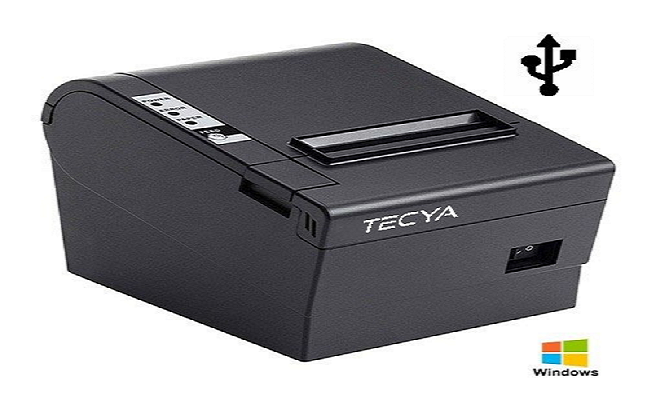
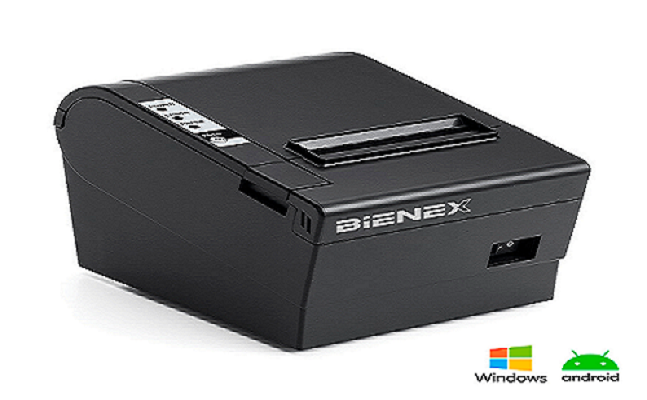
cambios

diff --git a/src/app/home/venta-accesorios/venta-accesorios.component.html b/src/app/home/venta-accesorios/venta-accesorios.component.html
@@ -14,14 +14,13 @@
                                         </figure>
                                         <div class="article-body">
                                             <div class="offer-badge">Nuevo</div>
-                                         <h2 class="nproducts">PROYECTOR EPSON POWERLITE X49 XGA 1024 X 768 3600L</h2>
-                                            <p class="precioante">USD. 610.00 | S/. 2,305.80</p>
-                                            <p class="precioactual">USD. 603.00 | S/. 2,279.34</p>
+                                         <h2 class="nproducts">Ticketera termica BLUETOOTH USB Papel Termico 80mm</h2>
+                                            <p class="precioante">USD. 133.60 | S/. 500.00</p>
+                                            <p class="precioactual">USD. 120.24 | S/. 450.00</p>
                                             <p class="stock">
                                                 <strong>Stock : + de 10</strong> | CI : 014725
                                             </p>
                                             <div class="button-wrapper">
-                                                <button class="btn outline">DETALLES</button>
                                                 <button class="btn fill">COMPRAR</button>
                                             </div>
                                         </div>
@@ -34,14 +33,18 @@
                                 <article>
                                     <div class="article-wrapper">
                                         <figure>
-                                            <img src="assets/img/mesa.PNG" class="d-block w-100" alt="Sistema Mesa de Partes Virtual">
+                                            <img src="assets/img/rollo.png" class="d-block w-100" alt="Sistema de caja">
                                         </figure>
                                         <div class="article-body">
-                                            <div class="offer-badge">Oferta</div>
-                                            <h2>Mesa de Partes Virtual</h2>
+                                            <div class="offer-badge">Nuevo</div>
+                                         <h2 class="nproducts">Rollo Papel Térmico 80 x 60 x 12 Ticket registradora</h2>
+                                            <p class="precioante">USD. 16.03 | S/. 60.00</p>
+                                            <p class="precioactual">USD. 14.70 | S/. 55.00</p>
+                                            <p class="stock">
+                                                <strong>Stock : + de 15</strong> | CI : 014726
+                                            </p>
                                             <div class="button-wrapper">
-                                                <button class="btn outline">DETALLES</button>
-                                                <button class="btn fill">COTIZAR</button>
+                                                <button class="btn fill">COMPRAR</button>
                                             </div>
                                         </div>
                                     </div>
@@ -58,13 +61,18 @@
                                 <article>
                                     <div class="article-wrapper">
                                         <figure>
-                                            <img src="assets/img/soil.PNG" class="d-block w-100" alt="soiltestperú">
+                                            <img src="assets/img/ticket1.png" class="d-block w-100" alt="Sistema de caja">
                                         </figure>
                                         <div class="article-body">
                                             <div class="offer-badge">Nuevo</div>
-                                            <h2>SOILTESTPERÚ</h2>
+                                         <h2 class="nproducts">Impresora ticketera termica 57mm USB BLUETOOTH BIENEX</h2>
+                                            <p class="precioante">USD. 57.45 | S/. 215.00</p>
+                                            <p class="precioactual">USD. 55.84 | S/. 209.00</p>
+                                            <p class="stock">
+                                                <strong>Stock : + de 12</strong> | CI : 014727
+                                            </p>
                                             <div class="button-wrapper">
-                                                <a href="https://soiltestperu.iadataperu.com/" class="btn fill" target="_blank">VER DEMO</a>
+                                                <button class="btn fill">COMPRAR</button>
                                             </div>
                                         </div>
                                     </div>
@@ -76,12 +84,18 @@
                                 <article>
                                     <div class="article-wrapper">
                                         <figure>
-                                            <img src="assets/img/wasi.png" class="d-block w-100" alt="wasihub">
+                                            <img src="assets/img/rollo1.png" class="d-block w-100" alt="Sistema de caja">
                                         </figure>
                                         <div class="article-body">
-                                            <h2>WASIHUB</h2>
+                                            <div class="offer-badge">Oferta</div>
+                                         <h2 class="nproducts">Rollo Papel Térmico 80 x 60 x 12 Ticket registradora</h2>
+                                            <p class="precioante">USD. 12.02 | S/. 45.00</p>
+                                            <p class="precioactual">USD. 10.90 | S/. 40.80</p>
+                                            <p class="stock">
+                                                <strong>Stock : + de 10</strong> | CI : 014728
+                                            </p>
                                             <div class="button-wrapper">
-                                                <a href="https://wasihub.pe/" class="btn fill" target="_blank">VER DEMO</a>
+                                                <button class="btn fill">COMPRAR</button>
                                             </div>
                                         </div>
                                     </div>
